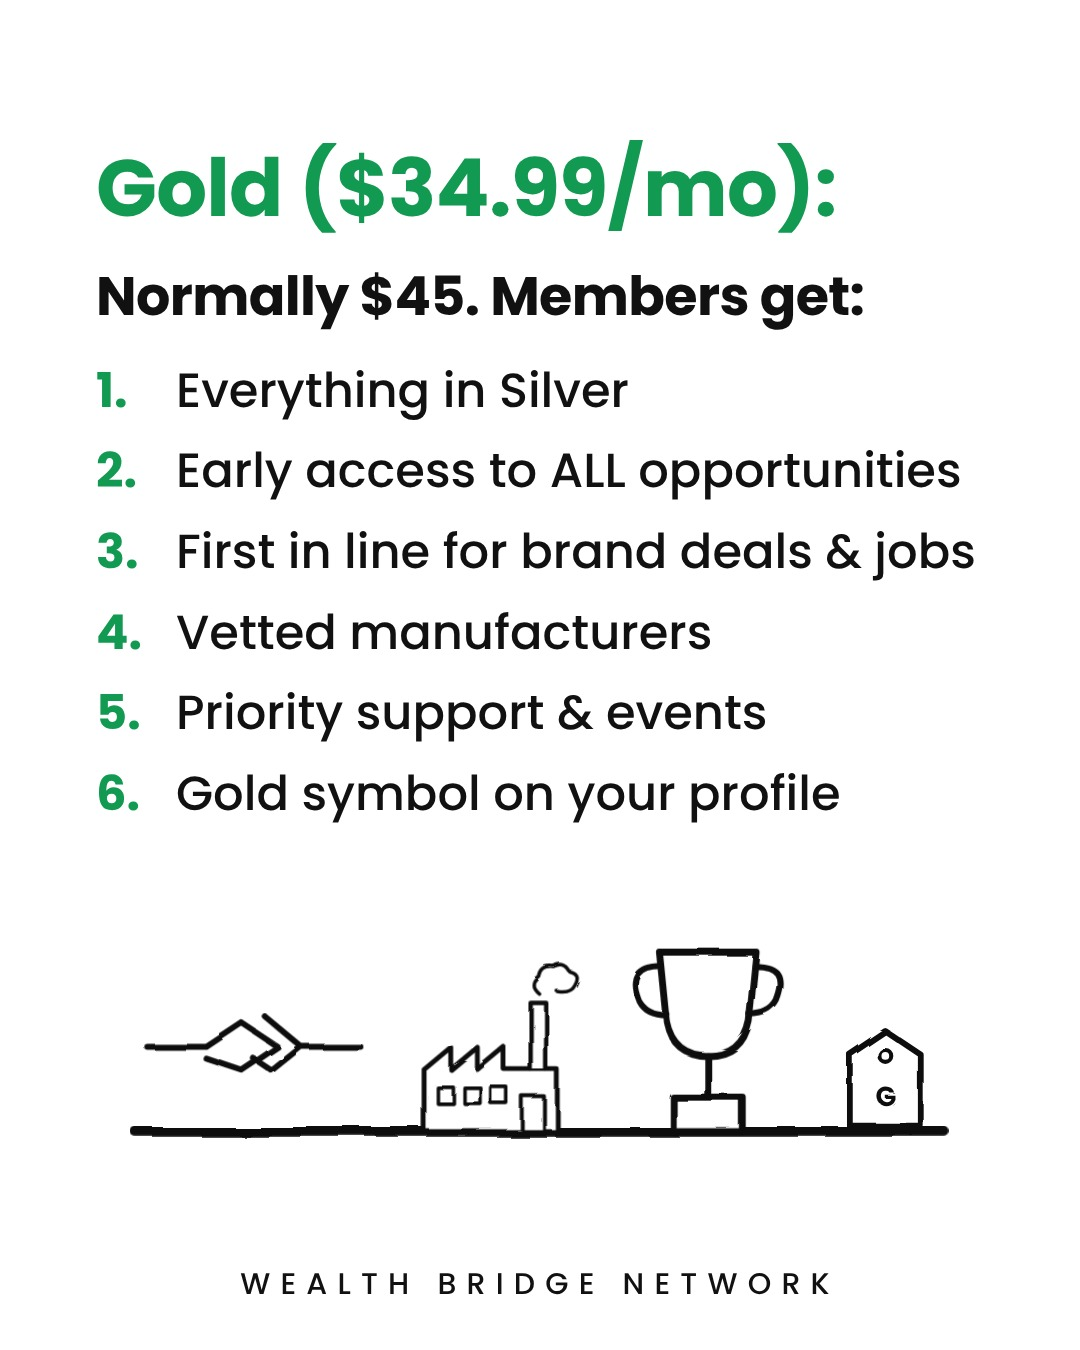
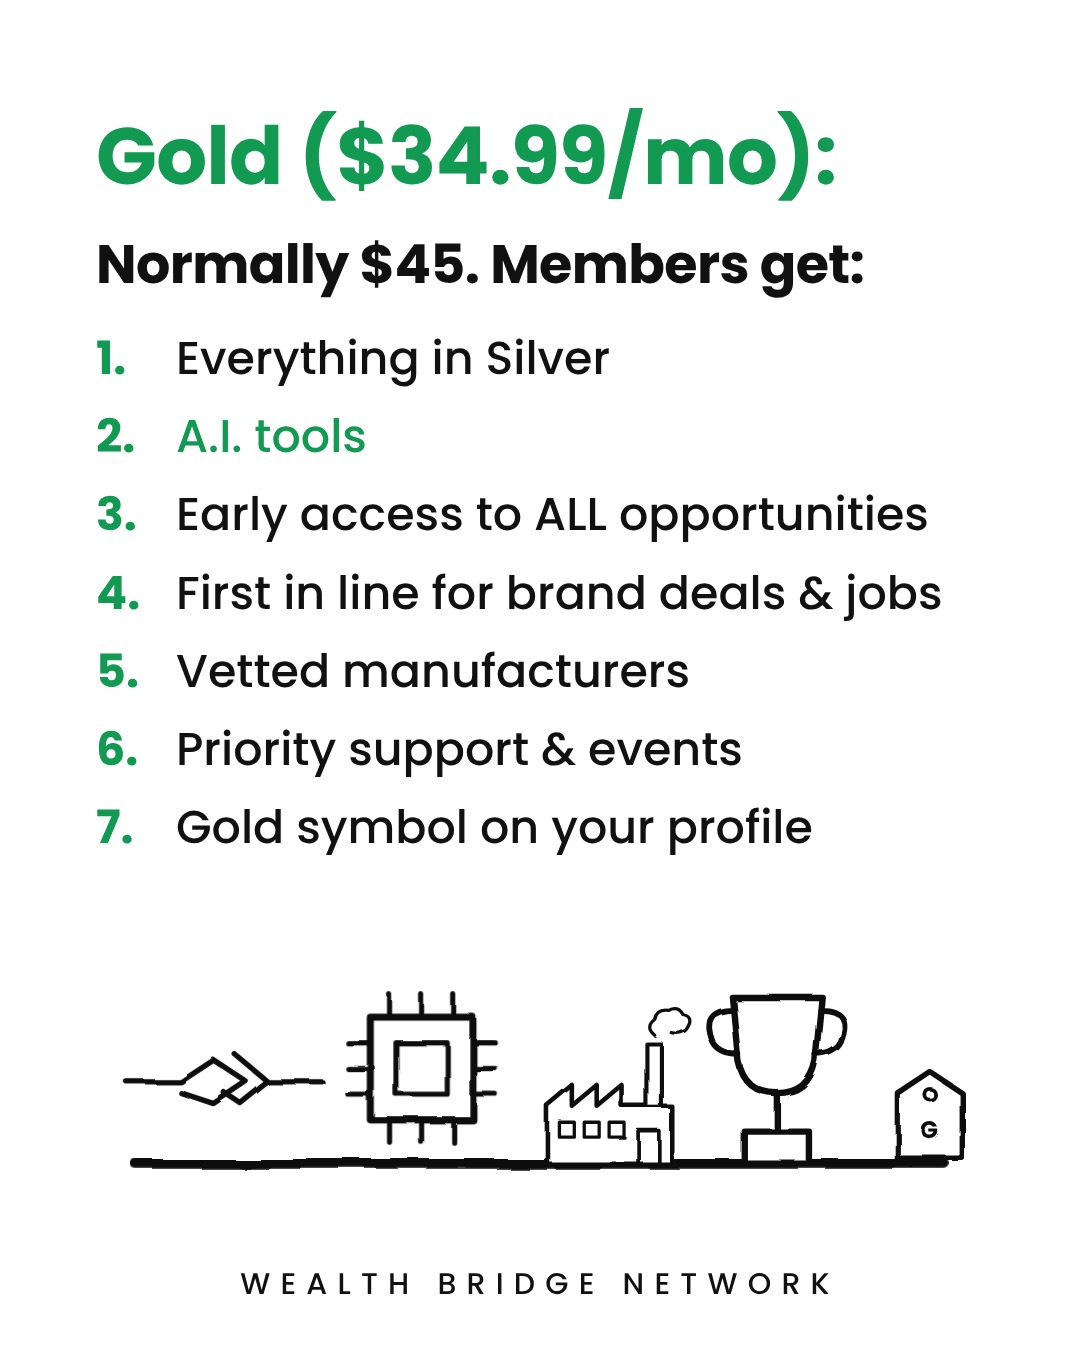
Membership carousel: Silver/Gold access to brand deals, jobs & universities; Gold adds A.I. tools
Claude-Session: https://claude.ai/code/session_01XWHiAw1FC92SEhPtnn4Xv2

Changed region(s): [[0.0917, 0.0622, 0.9167, 0.6222], [0.1222, 0.6844, 0.9167, 0.8711]]

diff --git a/content/membership.py b/content/membership.py
@@ -46,7 +46,7 @@ TIER = dict(hd=84, fs=58, **{"is": 54}, ah=330)
 POSTS = [
 dict(id="m1-memberships", pillar="Membership", title="Which membership is right for you?",
  caption=caption("Free, Silver, Gold or Green: which Wealth Bridge membership is right for you?",
-                 "Silver ($12.99/mo): apartment listings, weekly newsletter, selected opportunities and member-only webinars. Gold ($34.99/mo): early access to ALL opportunities, first in line for brand deals and jobs, vetted manufacturers and priority support. Green: free for approved companies. Tap the link in bio to join.",
+                 "Silver ($12.99/mo): apartment listings, weekly newsletter, access to brand deals, jobs and universities, and member-only webinars. Gold ($34.99/mo): everything in Silver plus A.I. tools, early access to ALL opportunities, first in line for brand deals and jobs, vetted manufacturers and priority support. Green: free for approved companies. Tap the link in bio to join.",
                  "#ugccreator #branddeals #creatoreconomy #membership"),
  slides=[
  dict(hook="Which\n*membership*\nis right\nfor you?", hs=124, swipe=True, kick="Free, Silver, Gold or Green. Here's the difference.",
@@ -57,15 +57,15 @@ dict(id="m1-memberships", pillar="Membership", title="Which membership is right 
       items=["A free account", "Weekly China tips", "Upgrade any time"],
       scene=icons(phone(170, 250, 0.75, "WBN"), board(450, 250, 0.6, "TIPS"), check(720, 230, 1.1, True)), vh=260, **TIER),
  dict(head="Silver ($12.99/mo):", text=["Normally $25. Members get:"],
-      items=["Apartment listings + maid, chef & nanny", "Weekly newsletter & updates", "Selected opportunities",
+      items=["Apartment listings + maid, chef & nanny", "Weekly newsletter & updates", "Brand deals, jobs & universities",
              "Member-only webinars", "Silver symbol on your profile"],
       scene=icons(door(130, 250, 0.6), board(330, 250, 0.55, "NEWS"), magnifier(520, 250, 0.8), laptop(700, 250, 0.55, "LIVE"), tag(840, 250, 0.6, "S")), vh=260,
       **{**TIER, "is": 50, "fs": 54, "hd": 80}),
  dict(head="Gold ($34.99/mo):", text=["Normally $45. Members get:"],
-      items=["Everything in Silver", "Early access to ALL opportunities", "First in line for brand deals & jobs",
+      items=["Everything in Silver", "*A.I. tools*", "Early access to ALL opportunities", "First in line for brand deals & jobs",
              "Vetted manufacturers", "Priority support & events", "Gold symbol on your profile"],
-      scene=icons(handshake_hands(160, 200, 0.6), factory(400, 250, 0.45), trophy(620, 250, 0.7), tag(800, 250, 0.6, "G")), vh=260,
-      **{**TIER, "is": 48, "fs": 54, "hd": 80}),
+      scene=icons(handshake_hands(130, 200, 0.55), chip(330, 225, 0.65), factory(520, 250, 0.42), trophy(690, 250, 0.65), tag(845, 250, 0.55, "G")), vh=260,
+      **{**TIER, "is": 46, "fs": 54, "hd": 80}),
  dict(head="Green (companies):", text=["Free. Approved companies get:"],
       items=["Their own application track", "The green symbol", "A green badge on our marketing"],
       scene=icons(factory(180, 250, 0.5), board(450, 250, 0.6, "APPLY"), check(640, 230, 1.0, True), tag(800, 250, 0.65, "G")), vh=260,
